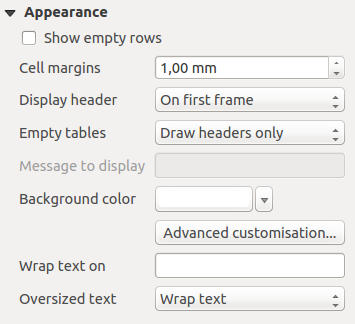
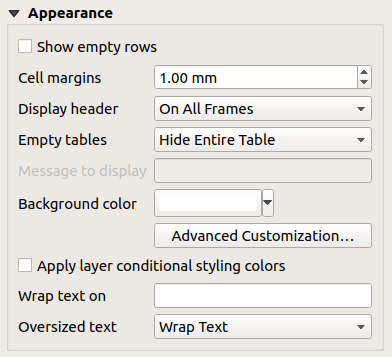
Describe the layout table customization

diff --git a/docs/user_manual/print_composer/composer_items/composer_attribute_table.rst b/docs/user_manual/print_composer/composer_items/composer_attribute_table.rst
@@ -211,6 +211,13 @@ the following functionalities  (see figure_layout_table_appearance_):
 
    Attribute table Advanced Background Dialog
 
+* |checkbox| :guilabel:`Apply layer conditional styling colors`:
+  the :ref:`conditional table formatting <conditional_formatting>` present
+  in the layer is applied inside the layout attribute table (*only background
+  and foreground colors are currently supported*). Conditional formatting rules
+  take precedence over all other corresponding layout table formatting settings,
+  e.g. they will override other cell background color settings such as the
+  alternating row colors.
 * With the :guilabel:`Wrap text on` option, you can define a character on which
   the cell content will be wraped each time it is met
 * With :guilabel:`Oversized text` you define the behavior when the width set for
